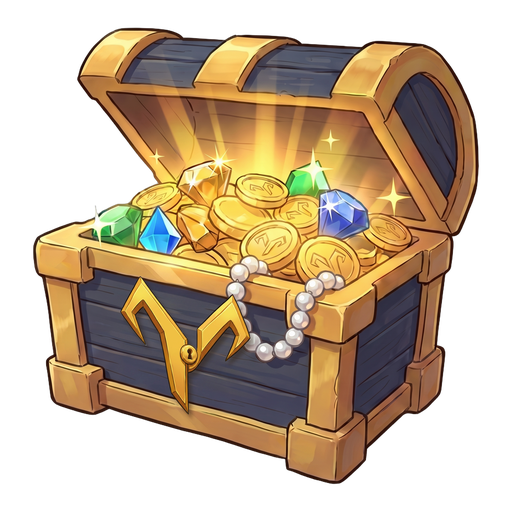
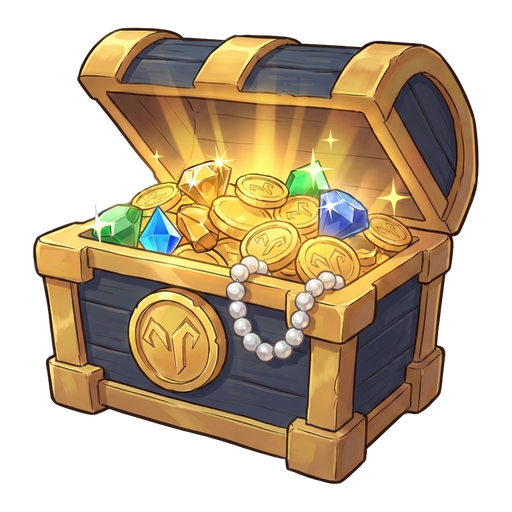
Revert Weekly and Monthly chests to their Step 3 versions
The art director preferred the chests without the Goated-logo locks.
Drops the alternates (not chosen) and rebuilds the 512px copies and
showcase sheets. Final set: ten icons including Free Spins.

Claude-Session: https://claude.ai/code/session_013HbFSBnr4hEbWxBe4vtSbq

Changed region(s): [[0.2188, 0.5312, 0.5, 0.8125]]

diff --git a/docs/05-revisions.md b/docs/05-revisions.md
@@ -6,14 +6,14 @@ Edits applied to the finished icons with Nano Banana Pro as direct image edits (
 | Bonus | Request | Result |
 |---|---|---|
 | Instant Rakeback | Remove the imperfections on the rake | Smooth, clean lime head and handle |
-| Weekly | Change the lock to the Goated logo | Lock is now the Goated logo, cast in gold (composited, see below) |
-| Monthly | Add a lock in the shape of the Goated logo | Goated-logo lock centred on the chest front, replacing the round medallion (composited). Alternate that keeps the medallion: `final/alternates/monthly_lock_with_medallion.png` |
+| Weekly | Change the lock to the Goated logo | Tried (see below). **Reverted at the art director's request**: the final is the Step 3 chest |
+| Monthly | Add a lock in the shape of the Goated logo | Tried (see below). **Reverted at the art director's request**: the final is the Step 3 chest |
 | Reload | Remove the light reflection that gets cut off at the battery's border | Glow kept inside the charge window only; clean outer outline |
 | Lossback | Replace the coin with the cash stack; remove imperfections on the arrows | Goated cash stack centred; the same two lime arrows, smoothed |
 | Tier Up | Remove the window; add a yellow Goated logo | Window removed; Goated logo decal in brand lime-yellow `#D4FF00` |
-| **Free Spins (new)** | Slot machine like the reference, no coins | Lime reel drum with 777 window and lever (`tools/concepts_r3.json`, variant 1). Alternates: Goated gold trim, mid-spin |
+| **Free Spins (new)** | Slot machine like the reference, no coins | Lime reel drum with 777 window and lever (`tools/concepts_r3.json`, variant 1), approved |
 
-## How the logo locks were made
+## How the logo locks were made (not used in the finals)
 
 Nano Banana Pro would not hold the logo's **asymmetric** silhouette inside a busy chest scene. Three passes
 kept redrawing it as a symmetric fleur, so the lock is made in two deterministic steps instead:
@@ -24,7 +24,7 @@ kept redrawing it as a symmetric fleur, so the lock is made in two deterministic
    `tools/place_lock.py` composites the painted lock with shear and foreshortening to follow the chest face,
    plus a soft contact shadow.
 
-Placements used (2048px canvas):
+Placements used (2048px canvas), kept in case the locks are revisited:
 
 ```bash
 python tools/place_lock.py weekly_nolock.png  final/flat/weekly.png  --cx 770 --top 1150 --height 420 --shear 0.12 --squash 0.9

diff --git a/README.md b/README.md
@@ -14,7 +14,7 @@ masters in `final/flat/`). In-card preview: [`review/final_cards.png`](review/fi
 | 2. Round 1 variants (A/B/C) | [`docs/02-variants.md`](docs/02-variants.md) | `variants/<bonus>/`, `review/<bonus>.png` |
 | 2b. Round 2 variants from feedback | [`docs/03-round2.md`](docs/03-round2.md) | `variants/round2/<bonus>/`, `review/round2/<bonus>.png` |
 | 3. Finals | [`docs/04-finals.md`](docs/04-finals.md) | `final/`, `review/final_*.png` |
-| 4. Revisions + Free Spins | [`docs/05-revisions.md`](docs/05-revisions.md) | `final/`, `final/alternates/`, `review/final_alternates.png` |
+| 4. Revisions + Free Spins | [`docs/05-revisions.md`](docs/05-revisions.md) | `final/` |
 
 ## Layout
 
